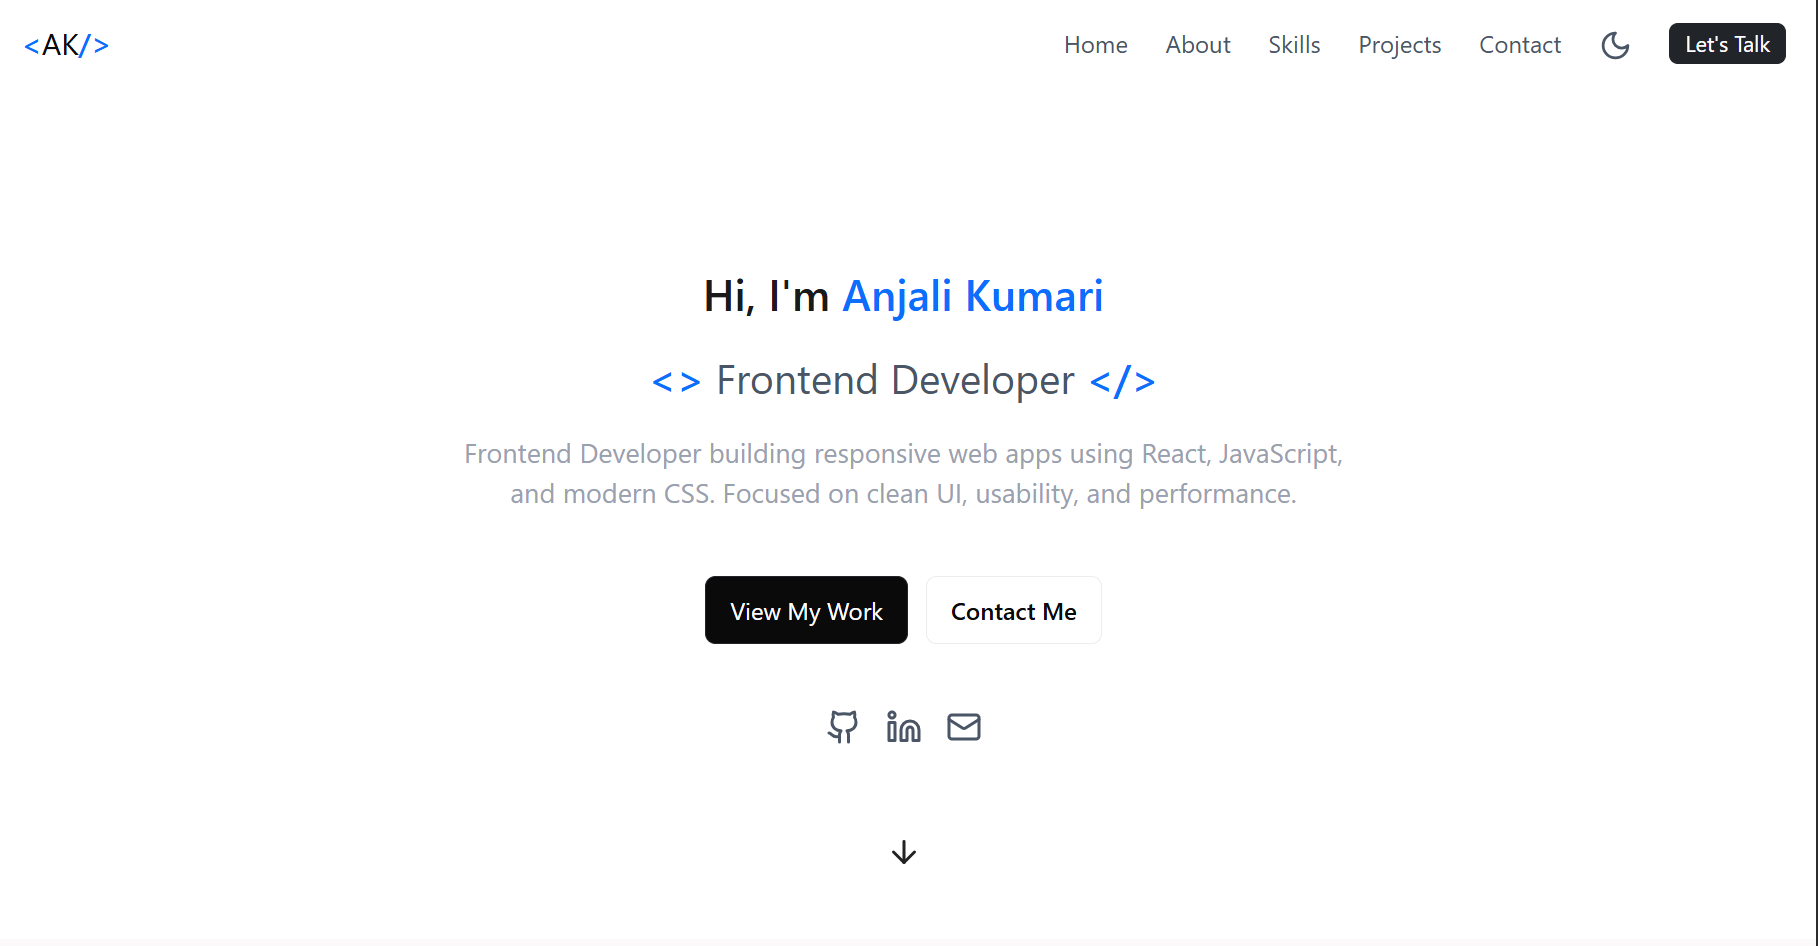
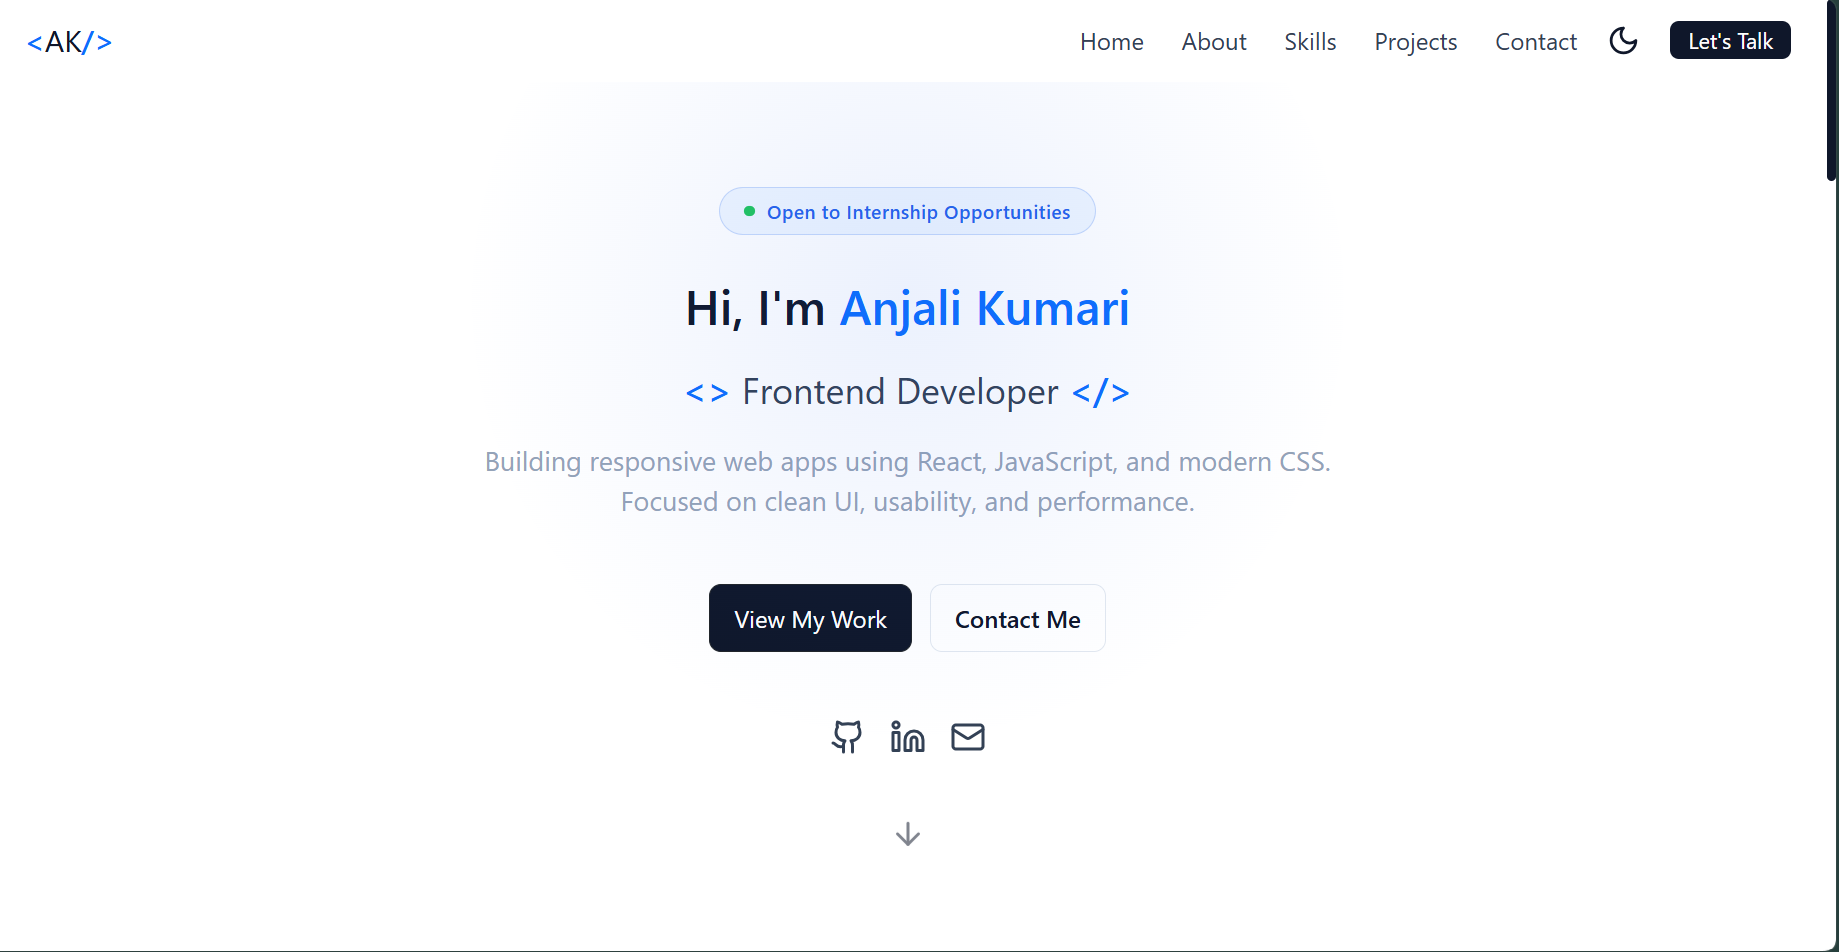
updated read me file

diff --git a/Readme.md b/Readme.md
@@ -21,10 +21,69 @@ This portfolio is a reflection of my learning journey and the projects I’ve bu
 - Responsive design for all devices 
 - Modern and clean UI design 
 - Smooth scrolling navigation  
-- Dark/Light mode toggle  
+- Dark/Light mode toggle, saves preference via localStorage  
 - Projects showcase section  
 - Contact form  
 - Downloadable resume/CV  
+- CSS VariablesAll colors and spacing in one place — easy to customize
+
+## 📁 Project Structure
+
+```text
+portfolio/
+│
+├── index.html                  ← Main HTML file (all sections)
+│
+├── css/
+│   ├── main.css                ← Imports all CSS files in order
+│   │
+│   ├── base/
+│   │   ├── variables.css       ← CSS custom properties (colors, spacing, themes)
+│   │   ├── global.css          ← Body, fonts, section labels, scrollbar
+│   │   └── reset.css           ← Box-sizing, margin/padding reset
+│   │
+│   ├── components/
+│   │   ├── navbar.css          ← Header, nav links, theme toggle
+│   │   ├── hamburger.css       ← Hamburger menu & mobile nav styles
+│   │   ├── back-to-top.css     ← Back to top button
+│   │   ├── buttons.css         ← All button styles (hero, project, download CV)
+│   │   └── customized-scrollbar.css ← Custom scrollbar styles
+│   │
+│   ├── layout/
+│   │   ├── hero.css            ← Hero section, typing effect, scroll arrow
+│   │   ├── about.css           ← About grid, quick facts card
+│   │   ├── skills.css          ← Skill cards
+│   │   ├── projects.css        ← Project cards
+│   │   ├── contact.css         ← Contact form, info panel
+│   │   └── footer.css          ← Footer layout, social icons
+│   │
+│   └── ui/
+│       ├── bg-blob-effect.css  ← Background blob animation
+│       ├── pop-message.css     ← Pop/toast message styles
+│       ├── scroll-arrow.css    ← Scroll arrow indicator
+│       ├── status-badge.css    ← Status badge (available for work, etc.)
+│       └── typing-effect.css   ← Typing animation styles
+│
+├── js/
+│   ├── main.js                 ← Main JS entry point
+│   ├── theme.js                ← Dark/light theme toggle with localStorage
+│   ├── hamburger.js            ← Hamburger menu functionality
+│   ├── back-to-top.js          ← Back to top button functionality
+│   └── typing-effect.js        ← Typing animation logic
+│
+└── assets/
+    ├── icons/
+    │   └── favicon.svg         ← Browser tab icon
+    ├── images/
+    │   ├── Hero.png            ← Hero section image
+    │   ├── About.png           ← About section image
+    │   ├── Skills.png          ← Skills section image
+    │   ├── Projects.png        ← Projects section image
+    │   ├── Contact.png         ← Contact section image
+    │   └── Footer.png          ← Footer section image
+    └── cv/
+        └── CV.pdf              ← Downloadable CV
+```
 
 ## 📸 Preview
 
@@ -34,13 +93,21 @@ This portfolio is a reflection of my learning journey and the projects I’ve bu
 ## About Page
 ![About Section](assets/images/About.png)
 
+## Skills Page
+![Skills Section](assets/images/Skills.png)
+
+## Projects Page
+![Projects Section](assets/images/Projects.png)
+
 ## Contact Page
 ![Contact Section](assets/images/Contact.png)
 
+## Footer Page
+![Footer Section](assets/images/Footer.png)
 
 ## 🔗 Live Website
 
-[Click here to view portfolio](your-live-link-here)
+[Click here to view portfolio](https://akvr000.netlify.app)
 
 ## 🎯 What I Learned
 